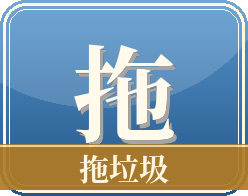
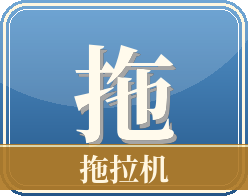
fix(whmj): 玩法卡去重与商城文案自洽，HUD 让位手牌
- 大厅：拖垃圾 -> 拖拉机；重复的斗地主改为晃晃（新增 game_hh.png）
- 商城：礼包赠送额度与到账金币数自洽（送 2/10/30/60/100/150 万）
- 牌桌：操作栏 top 596 -> 552，提示条与出牌按钮不再压住手牌
- 规范：清除 HTML 与普通块注释，保留 JSDoc；新增 tools/check_std.py 自检
- 资源生成器默认输出改到 src/static/whmj/gen，移除冗余的 web/static 目录

Changed region(s): [[0.5363, 0.7653, 0.6774, 0.949], [0.4234, 0.7653, 0.5363, 0.949]]

diff --git a/web/src/pages/whmj/table.vue b/web/src/pages/whmj/table.vue
@@ -18,7 +18,7 @@ $glass: rgba(6, 26, 18, 0.92);
 .tb-center { position: absolute; left: 50%; top: 6px; display: flex; flex-direction: row; align-items: center; margin-left: -150px; width: 300px; height: 30px; justify-content: center; }
 .tb-center__text { position: relative; font-size: 18px; color: rgba(246, 233, 206, 0.82); letter-spacing: 1px; }
 .tb-right { position: absolute; right: 14px; top: 8px; display: flex; flex-direction: row; }
-.bar { position: absolute; left: 344px; top: 596px; display: flex; flex-direction: row; align-items: center; width: 794px; height: 52px; }
+.bar { position: absolute; left: 344px; top: 552px; display: flex; flex-direction: row; align-items: center; width: 794px; height: 52px; }
 .bar__tip { position: relative; display: flex; flex-direction: row; align-items: center; flex: 1; height: 44px; padding: 0 16px; box-sizing: border-box; background: rgba(4, 20, 14, 0.72); border: 1px solid $line; border-radius: 22px; overflow: hidden; }
 .bar__tipText { position: relative; font-size: 18px; line-height: 22px; color: $cream; }
 .bar__tipText--warn { position: relative; color: #FFC46B; }
@@ -72,15 +72,12 @@ $glass: rgba(6, 26, 18, 0.92);
 </style>
 <template>
   <view class="page">
-    <!-- 画布层：1334×750 设计网格 -->
     <view class="layer" :style="rootStyle">
       <view class="stage" id="mj-stage" />
     </view>
 
-    <!-- HUD 层：同尺寸同缩放，作为画布层的后继兄弟节点，保证始终压在上方 -->
     <view class="layer layer--hud" :style="rootStyle">
 
-      <!-- 顶栏 -->
       <view class="topbar">
         <view class="tb-btn" @click="handleLeave">
           <image class="tb-btn__ico" :src="ico('arrow_left')" mode="aspectFit" />
@@ -105,27 +102,22 @@ $glass: rgba(6, 26, 18, 0.92);
         </view>
       </view>
 
-      <!-- 碰杠胡大字 -->
       <view class="fx" v-if="fxText" :key="fxKey">
         <text class="fx__text">{{ fxText }}</text>
       </view>
 
-      <!-- 提示气泡 -->
       <view class="toast" v-if="tipText">
         <text class="toast__text">{{ tipText }}</text>
       </view>
 
-      <!-- 底部状态 + 操作 -->
       <view class="bar" v-if="!resultVisible && !guideVisible">
         <view class="bar__tip">
           <text :class="tipWarn ? 'bar__tipText bar__tipText--warn' : 'bar__tipText'">{{ statusText }}</text>
         </view>
         <view class="bar__ops">
-          <!-- 碰 / 杠 / 胡 / 过 -->
           <view v-for="op in displayOptions" :key="op.type + '_' + op.tile" :class="opClass(op.type)" @click="doAction(op)">
             <text class="op__label">{{ opLabel(op) }}</text>
           </view>
-          <!-- 出牌：我的回合常驻，未选牌时点了给出提示 -->
           <view
             v-if="phase === 'play' && discardVisible"
             :class="discardClass"
@@ -135,7 +127,6 @@ $glass: rgba(6, 26, 18, 0.92);
         </view>
       </view>
 
-      <!-- 结算 -->
       <view class="mj-mask" v-if="resultVisible">
         <view class="card result">
           <text class="result__badge">{{ resultTitle }}</text>
@@ -163,7 +154,6 @@ $glass: rgba(6, 26, 18, 0.92);
         </view>
       </view>
 
-      <!-- 新手引导 -->
       <view class="mj-mask" v-if="guideVisible">
         <view class="card rule">
           <text class="rule__title">武汉赖子麻将 · 怎么玩</text>
@@ -201,7 +191,6 @@ $glass: rgba(6, 26, 18, 0.92);
         </view>
       </view>
 
-      <!-- 玩法说明 -->
       <view class="mj-mask" v-if="ruleVisible" @click="ruleVisible = false">
         <view class="card rule" @click.stop>
           <text class="rule__title">武汉赖子麻将</text>
@@ -287,7 +276,6 @@ export default
       tipText: '',
       tipWarn: false,
       soundOn: true,
-      /* 设计网格缩放：k 与偏移由 fitStage 计算 */
       uiScale: 1,
       uiLeft: 0,
       uiTop: 0
@@ -359,7 +347,6 @@ export default
       const weight = { [OP_HU]: 0, [OP_GANG]: 1, [OP_AN_GANG]: 2, [OP_BU_GANG]: 3, [OP_PENG]: 4, [OP_PASS]: 9 }
       const list = this.options.slice().sort((a, b) => (weight[a.type] || 5) - (weight[b.type] || 5))
 
-      /* 服务端的可选项不含「过」，由前端补一个，否则玩家只能干等超时自动放弃 */
       if (this.options.length && this.turn !== this.mySeat)
       {
         list.push({ type: OP_PASS, tile: 0 })
@@ -502,7 +489,6 @@ export default
       }
       catch (e)
       {
-        /* 存储不可用时仅本次有效 */
       }
     },
 

diff --git a/web/src/pages/whmj/index.vue b/web/src/pages/whmj/index.vue
@@ -309,10 +309,10 @@ export default
       games: [
         { key: 'whmj', name: '武汉麻将', img: `${GEN}/ui/game_whmj.png`, badge: '热门', open: true },
         { key: 'scmj', name: '四川麻将', img: `${GEN}/ui/game_scmj.png`, badge: '新', open: false },
-        { key: 'tlj', name: '拖垃圾', img: `${GEN}/ui/game_tlj.png`, badge: '', open: false },
+        { key: 'tlj', name: '拖拉机', img: `${GEN}/ui/game_tlj.png`, badge: '', open: false },
         { key: 'ddz1', name: '斗地主', img: `${GEN}/ui/game_ddz1.png`, badge: '', open: false },
         { key: 'kwx', name: '卡五星', img: `${GEN}/ui/game_kwx.png`, badge: '热门', open: false },
-        { key: 'ddz2', name: '斗地主', img: `${GEN}/ui/game_ddz2.png`, badge: '', open: false },
+        { key: 'hh', name: '晃晃', img: `${GEN}/ui/game_hh.png`, badge: '', open: false },
         { key: 'pdk', name: '跑得快', img: `${GEN}/ui/game_pdk.png`, badge: '', open: false }
       ],
       shopTabs: [
@@ -321,12 +321,12 @@ export default
         { key: 'item', name: '道具', icon: 'gift' }
       ],
       goldPacks: [
-        { name: '8万金币', tag: '送6万金币', price: 8 },
-        { name: '36万金币', tag: '送20万金币', price: 30 },
-        { name: '108万金币', tag: '送40万金币', price: 88 },
-        { name: '208万金币', tag: '送40万金币', price: 168 },
-        { name: '338万金币', tag: '送70万金币', price: 268 },
-        { name: '500万金币', tag: '送112万金币', price: 388 }
+        { name: '8万金币', tag: '送2万金币', price: 8 },
+        { name: '36万金币', tag: '送10万金币', price: 30 },
+        { name: '108万金币', tag: '送30万金币', price: 88 },
+        { name: '208万金币', tag: '送60万金币', price: 168 },
+        { name: '338万金币', tag: '送100万金币', price: 268 },
+        { name: '500万金币', tag: '送150万金币', price: 388 }
       ],
       gemPacks: [
         { name: '60钻石', tag: '首充双倍', price: 6 },

diff --git a/web/src/pages/whmj/login.vue b/web/src/pages/whmj/login.vue
@@ -40,13 +40,11 @@ $danger: #FF7A6B;
     <image class="page__bg" :src="bgImage" mode="aspectFill" />
     <view class="page__veil"></view>
 
-    <!-- 品牌标识 -->
     <view class="brand">
       <image class="brand__art" :src="logoImage" mode="aspectFit" />
       <text class="brand__sub">七皮四赖 · 红中杠</text>
     </view>
 
-    <!-- 登录 / 注册表单 -->
     <view class="form">
       <view :class="focusKey === 'userName' ? 'field--focus' : 'field'">
         <text class="field__label">账号</text>
@@ -90,7 +88,6 @@ $danger: #FF7A6B;
         <text class="switch__link" @click="toggleMode">{{ mode === 'login' ? '立即注册' : '返回登录' }}</text>
       </view>
 
-      <!-- 游客试玩：随机账号快速体验 -->
       <view class="guest" @click="guestPlay">
         <text class="guest__text">游客试玩 · 一键开局</text>
       </view>
@@ -184,7 +181,6 @@ export default
 
   onLoad()
   {
-    /* 已登录直接进大厅，避免重复输入 */
     if (getToken())
     {
       uni.reLaunch({ url: '/pages/whmj/index' })

diff --git a/web/tools/check_std.py b/web/tools/check_std.py
@@ -1,0 +1,135 @@
+#!/usr/bin/env python3
+"""uni-app 页面编码规范自检。
+
+校验项：
+    1. 块顺序必须是 style -> template -> script
+    2. 不允许出现 HTML / JS / CSS 注释
+    3. CSS 每条规则必须写在一行内
+    4. 相邻选择器之间不允许空行
+    5. 每条规则必须显式声明 position
+    6. 样式变量必须以 $ 开头并集中在文件顶部
+
+用法：
+    python3 tools/check_std.py src/pages/whmj/index.vue
+    python3 tools/check_std.py src/pages/whmj
+"""
+
+import os
+import re
+import sys
+
+
+def read(path: str) -> str:
+    with open(path, encoding="utf-8") as fh:
+        return fh.read()
+
+
+def blocks(text: str) -> dict:
+    """按出现顺序返回三个顶层块的起始下标。"""
+    pos = {}
+    for name in ("style", "template", "script"):
+        idx = text.find("<" + name)
+        if idx >= 0:
+            pos[name] = idx
+    return pos
+
+
+def check(path: str) -> list:
+    errs = []
+    text = read(path)
+    pos = blocks(text)
+
+    for name in ("style", "template", "script"):
+        if name not in pos:
+            errs.append(f"缺少 <{name}> 块")
+
+    if all(k in pos for k in ("style", "template", "script")):
+        order = sorted(pos, key=lambda k: pos[k])
+        if order != ["style", "template", "script"]:
+            errs.append("块顺序错误，应为 style -> template -> script，实际 " + " -> ".join(order))
+
+    if re.search(r"<!--", text):
+        errs.append("模板中存在 HTML 注释")
+
+    if re.search(r"/\*(?!\*)", text):
+        errs.append("存在普通块注释，仅允许 JSDoc")
+
+    m = re.search(r"<script[^>]*>(.*?)</script>", text, re.S)
+    if m:
+        script = re.sub(r"(?m)^\s*//\s*#(?:ifdef|ifndef|endif|else).*$", "", m.group(1))
+        if re.search(r'(?m)(?<![:"\'])//\s', script):
+            errs.append("脚本中存在行注释")
+
+    ms = re.search(r"<style[^>]*>(.*?)</style>", text, re.S)
+    if ms:
+        css = ms.group(1)
+        lines = [ln.rstrip() for ln in css.split("\n")]
+        selector_blank = False
+        for i, ln in enumerate(lines):
+            s = ln.strip()
+            if not s:
+                selector_blank = True
+                continue
+            if selector_blank and s.endswith("{") and not s.startswith("@"):
+                errs.append(f"选择器之间存在空行：{s[:48]}")
+            selector_blank = False
+
+        for i, ln in enumerate(lines):
+            s = ln.strip()
+            if not s.endswith("{"):
+                continue
+            if i + 1 < len(lines):
+                body = lines[i + 1].strip()
+                if body and not body.startswith("}") and "position" not in body:
+                    errs.append(f"规则缺少 position：{s[:48]}")
+                if body and not body.startswith("}") and body.endswith("}"):
+                    pass
+        for i, ln in enumerate(lines):
+            s = ln.strip()
+            if s.endswith("{") and i + 1 < len(lines):
+                body = lines[i + 1].strip()
+                if body and not body.startswith("}") and body.count("{") == 0 and not body.endswith("}"):
+                    errs.append(f"规则未写成单行：{s[:48]}")
+
+        first_var = None
+        for i, ln in enumerate(lines):
+            if re.match(r"^\s*\$[\w-]+\s*:", ln):
+                if first_var is None:
+                    first_var = i
+        if first_var is not None:
+            head = [ln.strip() for ln in lines[:first_var] if ln.strip()]
+            if head:
+                errs.append("样式变量未置于文件顶部")
+
+    return errs
+
+
+def collect(target: str) -> list:
+    if os.path.isdir(target):
+        out = []
+        for root, _dirs, files in os.walk(target):
+            for f in files:
+                if f.endswith(".vue"):
+                    out.append(os.path.join(root, f))
+        return sorted(out)
+    return [target]
+
+
+def main() -> int:
+    args = sys.argv[1:] or ["src/pages/whmj"]
+    failed = 0
+    for target in args:
+        for path in collect(target):
+            errs = check(path)
+            if errs:
+                failed += 1
+                print(f"FAIL {path}")
+                for e in errs:
+                    print("  - " + e)
+            else:
+                print(f"OK   {path}")
+    return 1 if failed else 0
+
+
+if __name__ == "__main__":
+    sys.exit(main())

diff --git a/web/tools/gen_whmj_art.py b/web/tools/gen_whmj_art.py
@@ -15,7 +15,7 @@
     gem.png        钻石
 
 用法：
-    python3 tools/gen_whmj_art.py [--out static/whmj/gen]
+    python3 tools/gen_whmj_art.py [--out src/static/whmj/gen]
 """
 
 from __future__ import annotations
@@ -71,10 +71,10 @@ DEVICES = [
     # key, 主色, 暗色, 大字, 副标题
     ("game_whmj", (228, 118, 117), (150, 52, 58), "麻", "武汉麻将"),
     ("game_scmj", (233, 176, 74), (156, 104, 30), "川", "四川麻将"),
-    ("game_tlj", (86, 150, 205), (36, 86, 136), "拖", "拖垃圾"),
+    ("game_tlj", (86, 150, 205), (36, 86, 136), "拖", "拖拉机"),
     ("game_ddz1", (94, 196, 200), (32, 122, 132), "斗", "斗地主"),
     ("game_kwx", (231, 150, 70), (150, 84, 26), "星", "卡五星"),
-    ("game_ddz2", (216, 96, 88), (140, 40, 42), "地", "斗地主"),
+    ("game_hh", (152, 122, 206), (86, 58, 142), "晃", "晃晃"),
     ("game_pdk", (110, 176, 92), (52, 108, 44), "跑", "跑得快"),
 ]
 
@@ -594,7 +594,7 @@ def draw_gem(path: str, size: int = 64) -> None:
 def main() -> None:
     """按清单生成全部资源。"""
     parser = argparse.ArgumentParser(description="生成武汉赖子麻将美术资源")
-    parser.add_argument("--out", default="static/whmj/gen", help="输出目录")
+    parser.add_argument("--out", default="src/static/whmj/gen", help="输出目录")
     args = parser.parse_args()
 
     out = args.out

diff --git a/README.md b/README.md
@@ -4,6 +4,7 @@
 > 技术栈：**uni-app(Vue3) + Phaser 3** 前端，**Go + cherry** 服务端，H5 横屏 1334×750
 
 在线地址：<https://60.204.248.157:8081/whmj/>（自签证书，浏览器需忽略告警）
+代码仓库：<https://github.com/flutter-zcj/whmj>
 
 ## 1. 项目结构
 
@@ -96,11 +97,13 @@ cd server && CGO_ENABLED=0 go build -trimpath -ldflags "-s -w" -o whmj .
 | 红中牌面渲染（`tile_z1`） | 通过 |
 | 商城 6 档礼包 + 三页签 | 通过 |
 | 隐私指引 / 防沉迷 / 防作弊 三个弹窗 | 通过 |
-| Vue 编码规范（`check_std.py`） | index/table/login 三个页面 0 不合规 |
+| 大厅 7 个玩法卡（武汉/四川/拖拉机/斗地主/卡五星/晃晃/跑得快） | 通过，无重名 |
+| 牌桌 HUD 不遮挡手牌（提示条 `top:552`，手牌顶 `646`） | 通过 |
+| Vue 编码规范（`tools/check_std.py`） | index/table/login 三个页面 0 不合规 |
 | Go 规范（`gofmt -l` 无输出、`go vet`、`go test`） | 通过 |
 
 ## 7. 已知边界
 
 - 支付为模拟，未接入任何支付 SDK；登录为账号体系，不含微信/QQ 登录。
-- 四川麻将、拖垃圾、斗地主、卡五星、跑得快五个入口为占位（点击提示「即将上线」）。
+- 四川麻将、拖拉机、斗地主、卡五星、晃晃、跑得快六个入口为占位（点击提示「即将上线」）。
 - 美术为按 Style Guide 重绘，非原包素材；原包 `res.dat` 加密，无法也无意提取其像素与音频。

diff --git a/docs/游戏资源分析.md b/docs/游戏资源分析.md
@@ -143,7 +143,7 @@
 ## 6. 一致性核对清单（发版前逐项打勾）
 
 1. 大厅配色与第 1.1 节色板一致，未出现散写色值。
-2. 七个玩法卡文案、顺序、角标与源界面一致（武汉麻将/四川麻将/拖垃圾/斗地主/卡五星/斗地主/跑得快）。
+2. 七个玩法卡文案、顺序、角标与源界面一致（武汉麻将/四川麻将/拖拉机/斗地主/卡五星/晃晃/跑得快），且不出现重名卡片。
 3. 商城页签、礼包档位（8/30/88/168/268/388 钻石）与赠送文案一致。
 4. 三个合规弹窗的标题、按钮文案、配色与源界面一致。
 5. 红中牌面与万/筒/条同尺寸同质感，牌桌可见「中」字牌。
